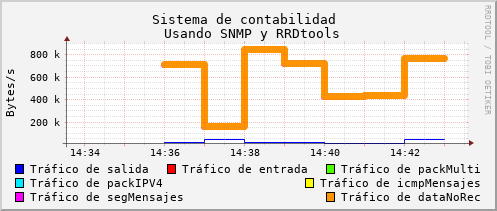
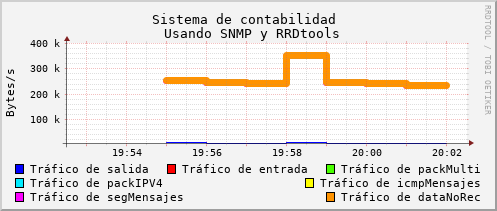
Update 3
Ya se monitorizan los oid, se genera la grafica , se genera el reporte txt, solo falta pulir la grafica, el formato txt y generar el pdf

Changed region(s): [[0.0604, 0.1706, 0.9356, 0.7393], [0.0604, 0.4265, 0.1207, 0.4834]]

diff --git a/4. AdministraciónDeContabilidad/Menu.py b/4. AdministraciónDeContabilidad/Menu.py
@@ -1,15 +1,50 @@
-from CreateRRD import iniciarRrdtool
-from updateRRD import actualizarRrdtool
+
+import rrdtool
+import time
+import datetime
 
 class Menu:
 
-    def __init__(self,inicio,fin):
-        self.inicio = inicio
-        self.fin = fin
+    def __init__(self,ano,mes,dia,hora,minutos):
+        self.ano = ano
+        self.mes = mes
+        self.dia = dia
+        self.hora = hora
+        self.minutos = minutos
+
 
     def inicioContabilidad(self):
-        iniciarRrdtool()
-        actualizarRrdtool()
+        min = int(self.minutos)
+        self.generarReporte(min)
+
+    def generarReporte(self,min):
+        hora_actual = datetime.datetime.now()
+        #print(f'Hora actual: {hora_actual}')
+        iso = hora_actual.timetuple()
+        iso2 = time.strftime('%m-%Y-%dT%H:%M:%S', iso)
+
+        resultado = hora_actual + datetime.timedelta(minutes=min)
+        #print(f'Hora modificada: {resultado}')
+        a = resultado.timetuple()
+        b = time.strftime('%m-%Y-%dT%H:%M:%S', a)
+
+        p = rrdtool.fetch("traficoRED.rrd", "AVERAGE", f"-s {iso2}")
+        #strp = "".join(p)
+
+        q = rrdtool.fetch("traficoRED.rrd","AVERAGE",f"-s {b}")
+        #strq = "".join(q)
+
+        with open("reporte.txt", "w", encoding="utf8") as archivo:
+            archivo.write("Device: edgar-Ubuntu".center(50,"-"))
+            archivo.write("\n")
+            archivo.write("Version SNMP: 1".center(50, "+"))
+            archivo.write("\n")
+            archivo.write("Description: Accounting Server".center(50, "*"))
+            archivo.write("\n")
+            archivo.write(time.asctime( time.localtime(time.time()) ).center(50, "%"))
+            archivo.write("\n")
+            print(p,file=archivo)
+            print(q,file=archivo)
 
 
 
@@ -18,9 +53,11 @@ if __name__ == "__main__":
     print(f'Sistema de Administraciòn de Red'.center(50, "-"))
     print("Pràctica 2 Administraciòn de contabilidad".center(50,"-"))
     print(f'Edgar Garcìa Marciano 2020630175'.center(50, "-"))
-
-    inicio = int(input("Ingresa el inicio: "))
-    fin = int(input("Ingresa el fin: "))
-
-    menu = Menu(inicio,fin)
+    ano= input("Ingresa el año: ")
+    mes = input("Ingresa el mes: ")
+    dia = input("Ingresa el dia: ")
+    hora = input("Ingresa la hora(Formato 24hrs): ")
+    minutos = input("Ingresa los minutos a monitorizar: ")
+    menu = Menu(ano,mes,dia,hora,minutos)
     menu.inicioContabilidad()
+

diff --git a/4. AdministraciónDeContabilidad/graphRRD.py b/4. AdministraciónDeContabilidad/graphRRD.py
@@ -1,7 +1,7 @@
 import sys
 import rrdtool
 import time
-
+import datetime
 #Creaciòn de la grafica, y de igual forma se define el tiempo a graficar por el usuario
 
 def graficar():
@@ -35,3 +35,28 @@ def graficar():
                          "LINE6:escalaIn#fb00ff:Tráfico de segMensajes",
                          "LINE7:escalaIn#ff9300:Tráfico de dataNoRec",
                          )
+
+#print ("time.time(): %f " %  time.time())
+#print (time.localtime( time.time() ))
+#print (time.asctime( time.localtime(time.time()) ))
+
+
+
+
+if __name__ == "__main__":
+    hora_actual = datetime.datetime.now()
+    print(f'Hora actual: {hora_actual}')
+    iso = hora_actual.timetuple()
+    iso2 = time.strftime('%m-%Y-%dT%H:%M:%S', iso)
+
+    resultado = hora_actual + datetime.timedelta(minutes=10)
+    print(f'Hora modificada: {resultado}')
+    a = resultado.timetuple()
+    b = time.strftime('%m-%Y-%dT%H:%M:%S', a)
+    timeas = int(time.time())
+
+
+    print(rrdtool.fetch("traficoRED.rrd","AVERAGE",f"-s{iso2}"))
+    print(rrdtool.fetch("traficoRED.rrd","AVERAGE",f"-s {b}"))
+    print(rrdtool.fetch("traficoRED.rrd","AVERAGE",f"-s{timeas}"))
+

diff --git a/4. AdministraciónDeContabilidad/iniciarMonitoreo.py b/4. AdministraciónDeContabilidad/iniciarMonitoreo.py
@@ -1,0 +1,4 @@
+from updateRRD import actualizarRrdtool
+from CreateRRD import iniciarRrdtool
+iniciarRrdtool()
+actualizarRrdtool()
